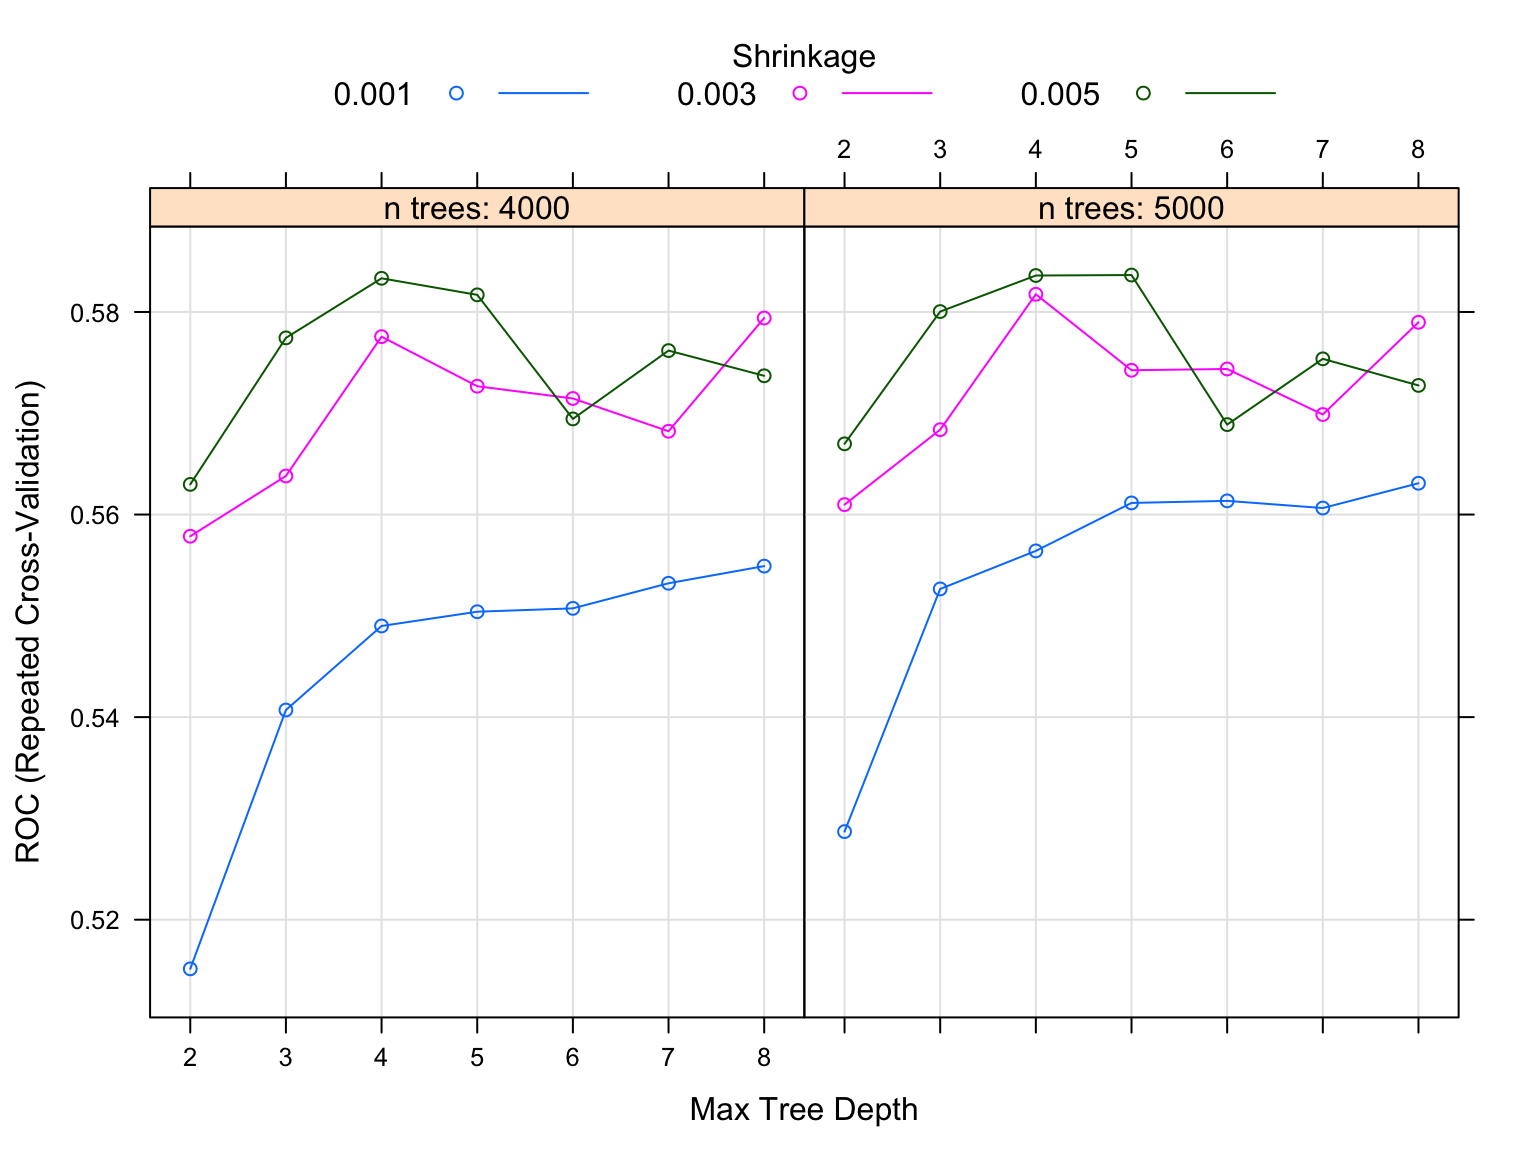
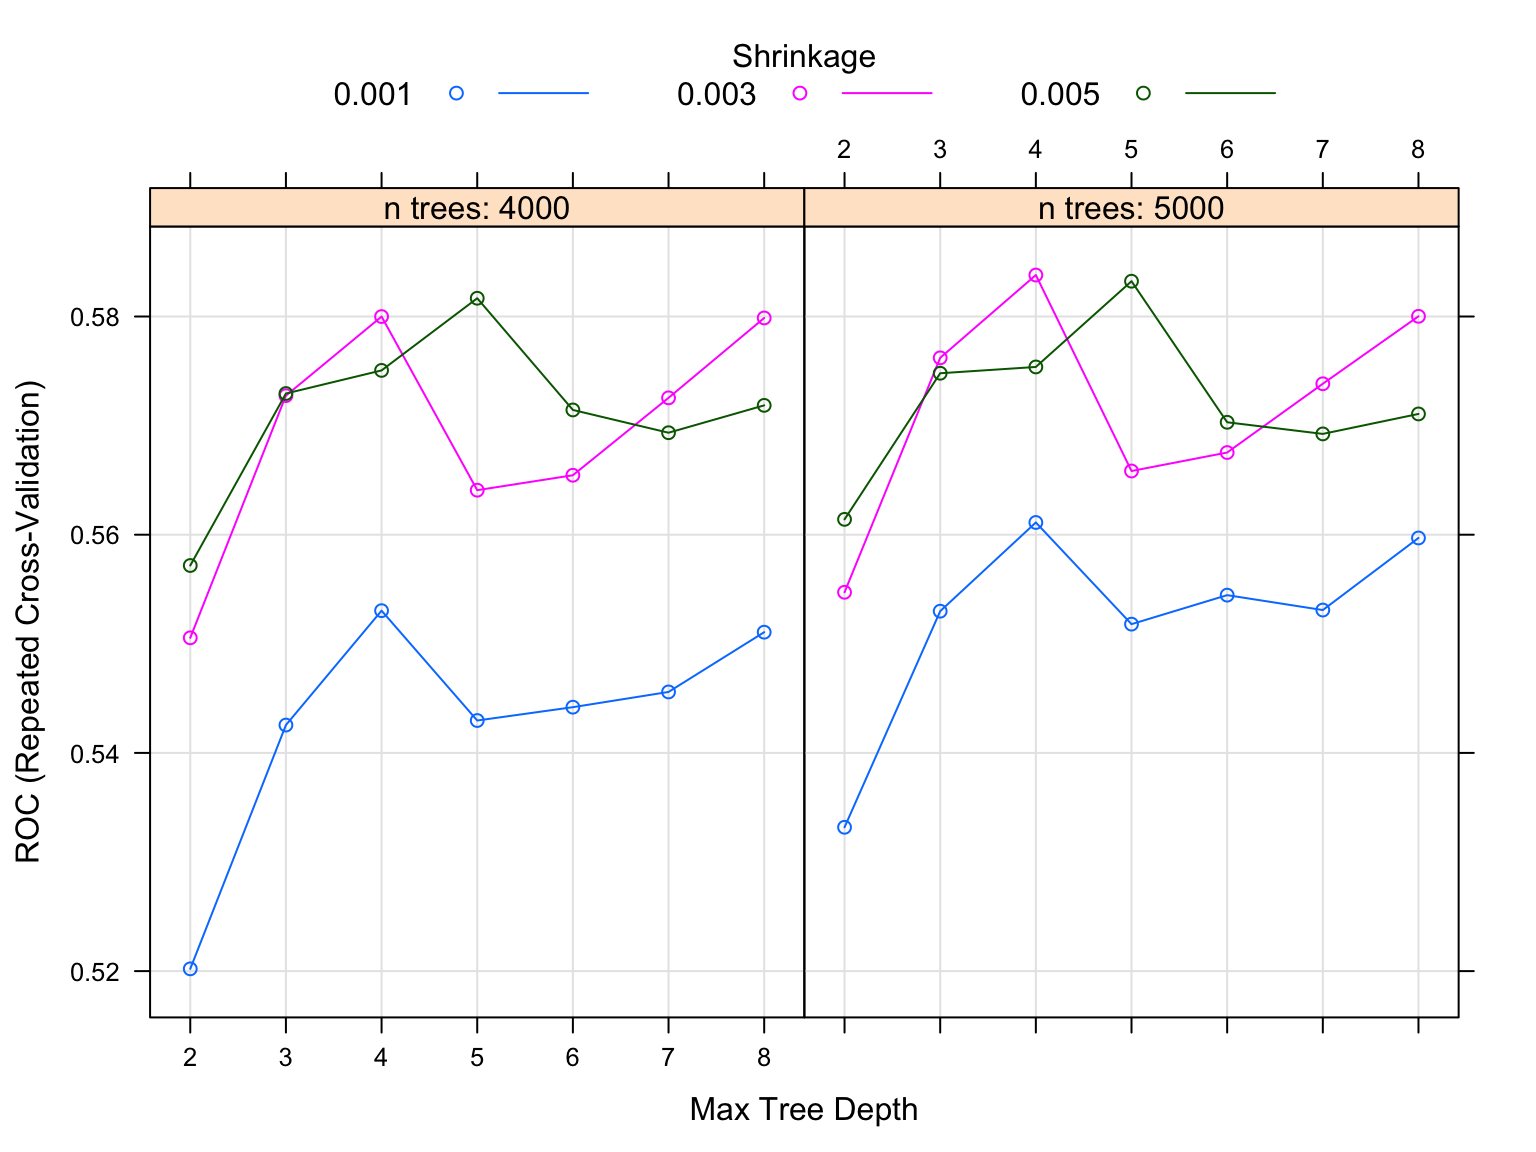
updated website

diff --git a/GreenTaxi.html b/GreenTaxi.html
@@ -10,9 +10,10 @@
 <meta http-equiv="X-UA-Compatible" content="IE=EDGE" />
 
 
+<meta name="author" content="Clement Mugenzi" />
 
 
-<title>About me</title>
+<title>GreenTaxi</title>
 
 <script src="site_libs/jquery-1.11.3/jquery.min.js"></script>
 <meta name="viewport" content="width=device-width, initial-scale=1" />
@@ -20,9 +21,6 @@
 <script src="site_libs/bootstrap-3.3.5/js/bootstrap.min.js"></script>
 <script src="site_libs/bootstrap-3.3.5/shim/html5shiv.min.js"></script>
 <script src="site_libs/bootstrap-3.3.5/shim/respond.min.js"></script>
-<script src="site_libs/jqueryui-1.11.4/jquery-ui.min.js"></script>
-<link href="site_libs/tocify-1.9.1/jquery.tocify.css" rel="stylesheet" />
-<script src="site_libs/tocify-1.9.1/jquery.tocify.js"></script>
 <script src="site_libs/navigation-1.1/tabsets.js"></script>
 <link href="site_libs/highlightjs-9.12.0/default.css" rel="stylesheet" />
 <script src="site_libs/highlightjs-9.12.0/highlight.js"></script>
@@ -253,63 +251,6 @@ $(document).ready(function () {
 
 
 
-<style type="text/css">
-
-#TOC {
-  margin: 25px 0px 20px 0px;
-}
-@media (max-width: 768px) {
-#TOC {
-  position: relative;
-  width: 100%;
-}
-}
-
-
-.toc-content {
-  padding-left: 30px;
-  padding-right: 40px;
-}
-
-div.main-container {
-  max-width: 1200px;
-}
-
-div.tocify {
-  width: 20%;
-  max-width: 260px;
-  max-height: 85%;
-}
-
-@media (min-width: 768px) and (max-width: 991px) {
-  div.tocify {
-    width: 25%;
-  }
-}
-
-@media (max-width: 767px) {
-  div.tocify {
-    width: 100%;
-    max-width: none;
-  }
-}
-
-.tocify ul, .tocify li {
-  line-height: 20px;
-}
-
-.tocify-subheader .tocify-item {
-  font-size: 0.90em;
-}
-
-.tocify .list-group-item {
-  border-radius: 0px;
-}
-
-
-</style>
-
-
 
 </head>
 
@@ -317,16 +258,6 @@ div.tocify {
 
 
 <div class="container-fluid main-container">
-
-
-<!-- setup 3col/9col grid for toc_float and main content  -->
-<div class="row-fluid">
-<div class="col-xs-12 col-sm-4 col-md-3">
-<div id="TOC" class="tocify">
-</div>
-</div>
-
-<div class="toc-content col-xs-12 col-sm-8 col-md-9">
 
 
 
@@ -397,17 +328,17 @@ div.tocify {
 
 
 
-<h1 class="title toc-ignore">About me</h1>
+<h1 class="title toc-ignore">GreenTaxi</h1>
+<h4 class="author">Clement Mugenzi</h4>
+<h4 class="date">7/10/2020</h4>
 
 </div>
 
 
-<iframe src="Documents/resume_2.pdf" width="100%" height="1000px">
+<iframe src="Documents/GreenTaxi.pdf" width="100%" height="1000px">
 
 
 
-</div>
-</div>
 
 </div>
 
@@ -440,32 +371,6 @@ $(document).ready(function () {
 
 <!-- code folding -->
 
-<script>
-$(document).ready(function ()  {
-
-    // move toc-ignore selectors from section div to header
-    $('div.section.toc-ignore')
-        .removeClass('toc-ignore')
-        .children('h1,h2,h3,h4,h5').addClass('toc-ignore');
-
-    // establish options
-    var options = {
-      selectors: "h1,h2,h3",
-      theme: "bootstrap3",
-      context: '.toc-content',
-      hashGenerator: function (text) {
-        return text.replace(/[.\\/?&!#<>]/g, '').replace(/\s/g, '_').toLowerCase();
-      },
-      ignoreSelector: ".toc-ignore",
-      scrollTo: 0
-    };
-    options.showAndHide = true;
-    options.smoothScroll = true;
-
-    // tocify
-    var toc = $("#TOC").tocify(options).data("toc-tocify");
-});
-</script>
 
 <!-- dynamically load mathjax for compatibility with self-contained -->
 <script>

diff --git a/Titanic.html b/Titanic.html
@@ -291,6 +291,9 @@ $(document).ready(function () {
     <li>
       <a href="Titanic.html">Titanic</a>
     </li>
+    <li>
+      <a href="GreenTaxi.html">Green Taxi - Percentage Tip</a>
+    </li>
   </ul>
 </li>
 <li>
@@ -877,20 +880,20 @@ gbm.fit = train(x = train_df, y = train_data$survival,
 summary(gbm.fit$finalModel, las = 2, cex.names = 0.6)</code></pre>
 <p><img src="Titanic_files/figure-html/unnamed-chunk-23-1.png" width="90%" /></p>
 <pre><code>##               var    rel.inf
-## fare         fare 26.5616014
-## titles     titles 26.2109654
-## age           age 21.1721060
-## pclass     pclass  9.6887440
-## gender     gender  5.1036894
-## famsize   famsize  4.6415573
-## embarked embarked  3.2555406
-## sib_sp     sib_sp  1.9696483
-## parch       parch  1.0180282
-## mother     mother  0.3781194</code></pre>
+## titles     titles 32.5331088
+## fare         fare 23.0147193
+## age           age 16.2632021
+## pclass     pclass 11.5699964
+## gender     gender  5.4637444
+## famsize   famsize  5.4270800
+## embarked embarked  2.7462332
+## sib_sp     sib_sp  1.8469697
+## parch       parch  0.8537137
+## mother     mother  0.2812324</code></pre>
 <pre class="r"><code># looking at the tuning results
 gbm.fit$bestTune</code></pre>
 <pre><code>##    n.trees interaction.depth shrinkage n.minobsinnode
-## 36    5000                 5     0.005              1</code></pre>
+## 20    5000                 4     0.003              1</code></pre>
 <pre class="r"><code># plot the performance of the training models
 plot(gbm.fit)</code></pre>
 <p><img src="Titanic_files/figure-html/unnamed-chunk-23-2.png" width="90%" /></p>

diff --git a/index.html b/index.html
@@ -359,6 +359,9 @@ div.tocify {
     <li>
       <a href="Titanic.html">Titanic</a>
     </li>
+    <li>
+      <a href="GreenTaxi.html">Green Taxi - Percentage Tip</a>
+    </li>
   </ul>
 </li>
 <li>
